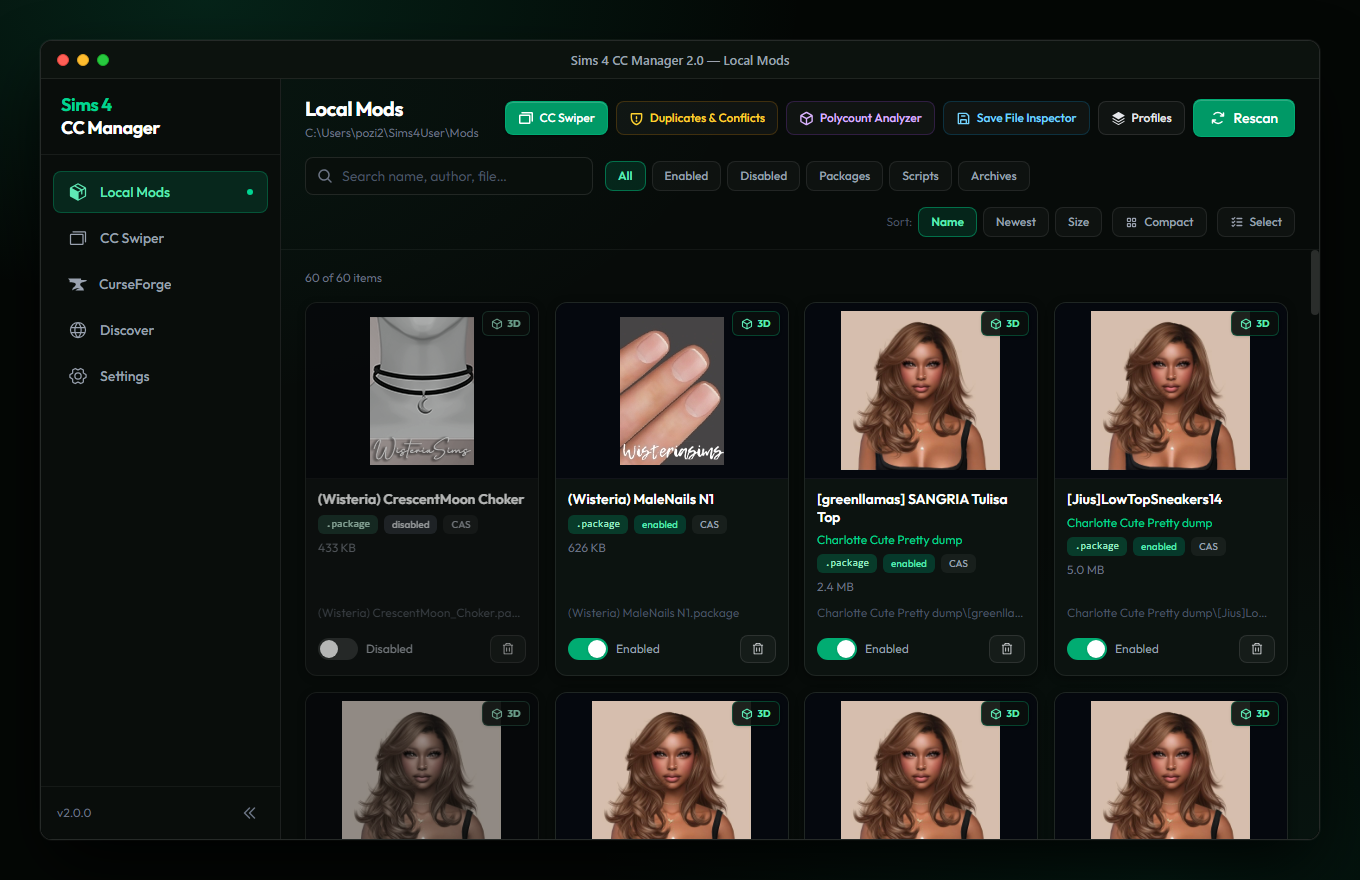
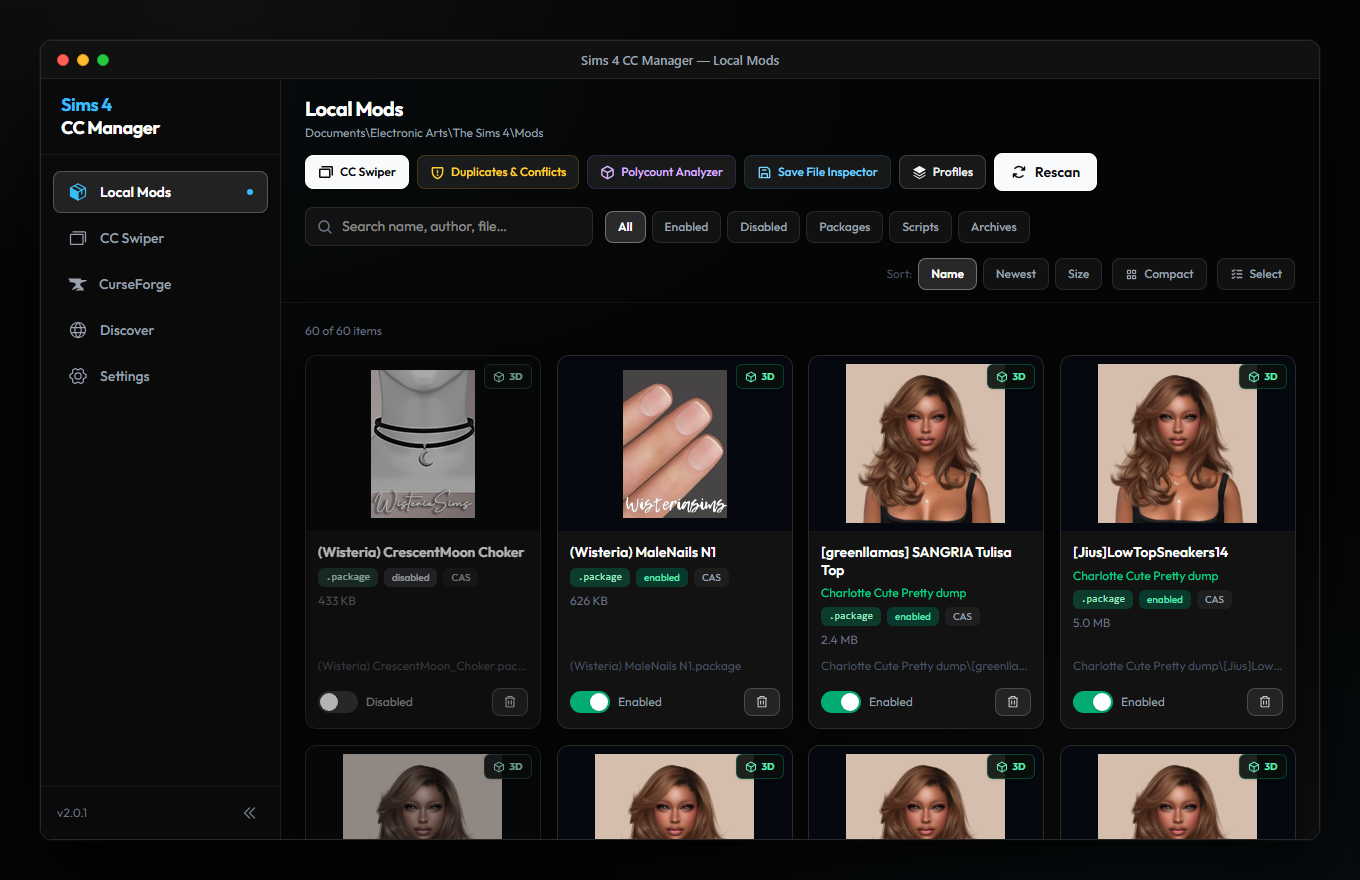
docs: README for Sims 4 CC Manager 2.0.1 with Studio Titanium screenshots
Eight screenshots from the real UI in the default theme (adds Polycount, Save Inspector and Themes), clearer wording on redirects, paid posts and restricted CurseForge downloads, SHA-1 duplicate hashing.

diff --git a/README.md b/README.md
@@ -1,8 +1,12 @@
-# Sims 4 CC Manager 2.0
+<p align="center">
+  <img src="build/appicon.png" width="112" alt="Sims 4 CC Manager icon">
+</p>
+
+# Sims 4 CC Manager
 
 A modern desktop application for browsing, installing, organizing, and cleaning custom content and mods for **The Sims 4**.
 
-Version 2.0 is a complete rewrite from the ground up using **Go, Wails v2, React 18, and Tailwind CSS**. It replaces the legacy Electron runtime with a high-performance native Go core, providing instant cold startups, an ultra-low memory footprint (~60 MB RAM), and multi-threaded DBPF package parsing.
+Version 2.0 is a complete rewrite using **Go, Wails v2, React 18, and Tailwind CSS**. It replaces the legacy Electron runtime with a native Go core: fast cold starts, a lighter memory footprint, and multi-threaded DBPF package parsing that leaves CPU headroom for the rest of your system.
 
 ---
 
@@ -16,20 +20,21 @@ Fast directory scanning, direct DBPF STBL string localization reading, package t
 - **Categorization**: Automatic grouping into Packages, Scripts, Archives, CAS Parts, Build/Buy Objects, and Tuning mods.
 - **Enable / Disable Toggle**: Instantly enable or disable mods via extension renaming to isolate broken content.
 - **Archive Extraction**: Drag-and-drop `.zip`, `.rar`, and `.7z` archives with automatic extraction and Tray item routing.
+- **Mod Profiles**: Save a set of enabled/disabled mods under a name and switch between sets in one click.
 - **Package Details**: Inspect internal resources (CASP, GEOM 3D mesh, RLE2 textures, STBL strings) and launch the integrated 3D mesh viewer.
 
 ---
 
-### 2. Discover Feed: Pinterest, Patreon, Tumblr
-An integrated content aggregator with an intelligent link resolver that extracts direct package download URLs, bypassing external ad redirects and link shorteners.
+### 2. Discover Feed: Patreon, Pinterest, Tumblr and more
+An integrated content aggregator: follow your favorite creators and get their new posts in one feed, with a link resolver that unwraps redirect wrappers and link shorteners down to the actual file.
 
 ![Discover Feed](docs/screenshots/02-discover-pinterest.png)
 
-- **One-Click Direct Downloads**: Automatically resolves SimFileShare, Google Drive, Patreon, and CurseForge links directly to `.package` files.
-- **Smart Feed Filtering**: Background validation workers filter out teaser photos and broken links, displaying only verified downloadable custom content.
-- **Creator Blog Support**: Deep link resolution for creator websites and portfolios (such as `seoul-soul.com`, Blogspot, Wix, and custom creator domains).
-- **Early Access Detection**: Clearly marks paid early access posts with lock indicators, keeping public free content easily accessible.
-- **Edge CDN Fallback**: Downloads CurseForge mods directly via CDN even when third-party API distribution is restricted by the creator.
+- **Follow Any Creator**: Add creators by name or link on Patreon, Tumblr, Boosty, The Sims Resource, itch.io, GitHub Releases, and Pinterest users or boards.
+- **One-Click Downloads**: Resolves SimFileShare, Google Drive, MediaFire, MEGA, Dropbox, Patreon, and CurseForge links to the downloadable file and installs it into `Mods`.
+- **Smart Feed Filtering**: Background validation filters out teaser photos and broken links.
+- **Creator Blog Support**: Deep link resolution for creator websites (Blogspot, Wix, SeoulSoul, and custom author domains).
+- **Paid Stays Paid**: Patron-only and early access posts are marked with a lock and open on Patreon. The app never unlocks paid content.
 
 ---
 
@@ -39,32 +44,62 @@ A card-swiping interface designed for cleaning bloated custom content collection
 ![CC Swiper](docs/screenshots/03-cc-swiper.png)
 
 - **Keyboard Controls**: Press `A` (or Left Arrow) to delete, and `D` (or Right Arrow) to keep.
-- **Recycle Bin Safety**: Deleted items are safely moved to the system Recycle Bin with instant undo (`Z`).
-- **Mobile Wi-Fi Companion**: Run the embedded local server to swipe and clean mods directly from your mobile phone or tablet on your local network.
-- **Resource Stats**: Real-time display of 3D polygon counts, texture memory, swatches, and total storage cleaned during the session.
+- **Recycle Bin Safety**: Deleted items are moved to the Windows Recycle Bin, with instant undo (`Z`).
+- **Mobile Wi-Fi Companion**: Run the embedded local server to swipe and clean mods from your phone or tablet on your local network.
+- **Resource Stats**: Polygon counts, texture memory, swatches, and total storage cleaned during the session.
 
 ---
 
 ### 4. CurseForge Catalog Browser
-A full-featured client for the official CurseForge mod platform with search, category filtering, and automated updates.
+A full-featured client for the CurseForge mod platform with search, category filtering, and update checks.
 
 ![CurseForge Catalog](docs/screenshots/04-curseforge.png)
 
-- Browse and search popular gameplay mods, traits, careers, and custom content.
-- **Update Checker**: Automatically detects new releases for installed script mods (e.g., MC Command Center, UI Cheats Extension, WonderfulWhims).
-- Background downloading with automated extraction into the `Mods` directory.
+- Browse and search gameplay mods, traits, careers, and custom content.
+- **Update Checker**: Detects new releases for installed script mods (e.g., MC Command Center, UI Cheats Extension, WonderfulWhims) and updates them in one click.
+- Background downloading with automatic extraction into the `Mods` directory.
+- **Respects Creators**: When an author disables third-party distribution, the app opens the mod page on CurseForge instead of downloading. An opt-in setting allows direct download at your own risk; it is off by default and shows a warning, because it goes against the author's choice and may get your CurseForge API key revoked.
+- Uses your own CurseForge API key (Settings).
 
 ---
 
-### 5. Diagnostics, Conflicts & Save Inspector
-A comprehensive diagnostic suite for game stability and performance optimization.
+### 5. Duplicates & Conflicts
+Find what silently breaks or bloats your game.
 
-![Diagnostics & Conflicts](docs/screenshots/05-diagnostics.png)
+![Duplicates & Conflicts](docs/screenshots/05-diagnostics.png)
 
-- **Conflict Detection**: Scans for conflicting Tuning IDs, instance overlaps, and duplicated GUIDs between packages.
-- **Duplicate Scanner**: Identifies exact file duplicates across subfolders using SHA-256 hash comparisons.
-- **Polycount Analyzer**: Flags high-poly meshes that can cause frame rate drops and simulation lag.
-- **Save File Inspector**: Analyzes `.save` files to verify that all custom content used by your Sims is installed, preventing missing mesh glitches.
+- **Duplicate Scanner**: Finds exact file copies across subfolders by SHA-1 hash and shows how much space they waste.
+- **TGI Conflict Detection**: Finds packages that override the same CAS, Object, or Tuning resources.
+- **Safe Cleanup**: Copies are removed to the Recycle Bin, not deleted forever.
+
+---
+
+### 6. Polycount Analyzer
+Heavy meshes are a common cause of lag in CAS and Live Mode.
+
+![Polycount Analyzer](docs/screenshots/06-polycount.png)
+
+- Extracts GEOM meshes and counts polygons for every 3D item, sorted from the heaviest.
+- Severity filters: Critical (>50k), Heavy (25k–50k), Medium (10k–25k), Low (<10k).
+- Open any item in the 3D viewer, disable it, or move it to the Recycle Bin in one click.
+
+---
+
+### 7. Save File Inspector
+See which custom content your saves actually use.
+
+![Save File Inspector](docs/screenshots/07-save-inspector.png)
+
+- Reads `.save` files and matches the CAS and Object IDs used by your households and lots.
+- Splits your CC into **used** and **unused**, with total sizes, so you can clean up safely.
+- Helps catch missing meshes before they turn into in-game glitches.
+
+---
+
+### 8. Themes
+Studio Titanium is the default: a neutral OLED monochrome that keeps the colors of your CC true, with every button readable. Prefer a mood? Pick one of the other palettes in Settings.
+
+![Themes](docs/screenshots/08-themes.png)
 
 ---
 
@@ -72,12 +107,12 @@ A comprehensive diagnostic suite for game stability and performance optimization
 
 | Component | Technology | Purpose |
 | :--- | :--- | :--- |
-| **Backend Core** | Go 1.22+ | High-throughput DBPF parser, HTTP link resolver, multi-threaded worker pools |
+| **Backend Core** | Go 1.22+ | DBPF parser, HTTP link resolver, bounded worker pools at below-normal process priority |
 | **Desktop Shell** | Wails v2 | Native Windows WebView2 runtime, replacing Electron |
-| **Frontend UI** | React 18, Vite | Component architecture, responsive dark theme |
-| **Styling** | Tailwind CSS v4 | Hardware-accelerated UI rendering, modern Sims Plumbob mineral theme |
-| **3D Rendering** | Three.js | Real-time interactive inspection of CAS and Object GEOM meshes |
-| **Localization** | Custom i18n | Multi-language support (English and Russian) |
+| **Frontend UI** | React 18, Vite | Component architecture, responsive dark UI |
+| **Styling** | Tailwind CSS v4 | Theme tokens: Studio Titanium by default plus alternative palettes |
+| **3D Rendering** | Three.js | Interactive inspection of CAS and Object GEOM meshes |
+| **Localization** | Custom i18n | English and Russian |
 
 ---
 
@@ -93,7 +128,7 @@ A comprehensive diagnostic suite for game stability and performance optimization
 
 1. Download the latest release from the [Releases](https://github.com/268268268/sims4cc/releases) page:
    - `sims4-cc-manager.exe` — Standalone portable executable (no installer required).
-   - `sims4-cc-manager-v2.0.0-windows-x64.zip` — Compressed release archive.
+   - `sims4-cc-manager-v2.0.1-windows-x64.zip` — Compressed release archive.
 2. Launch the application. On first startup, select your `Electronic Arts\The Sims 4\Mods` directory (auto-detected if in standard location).
 
 ---
